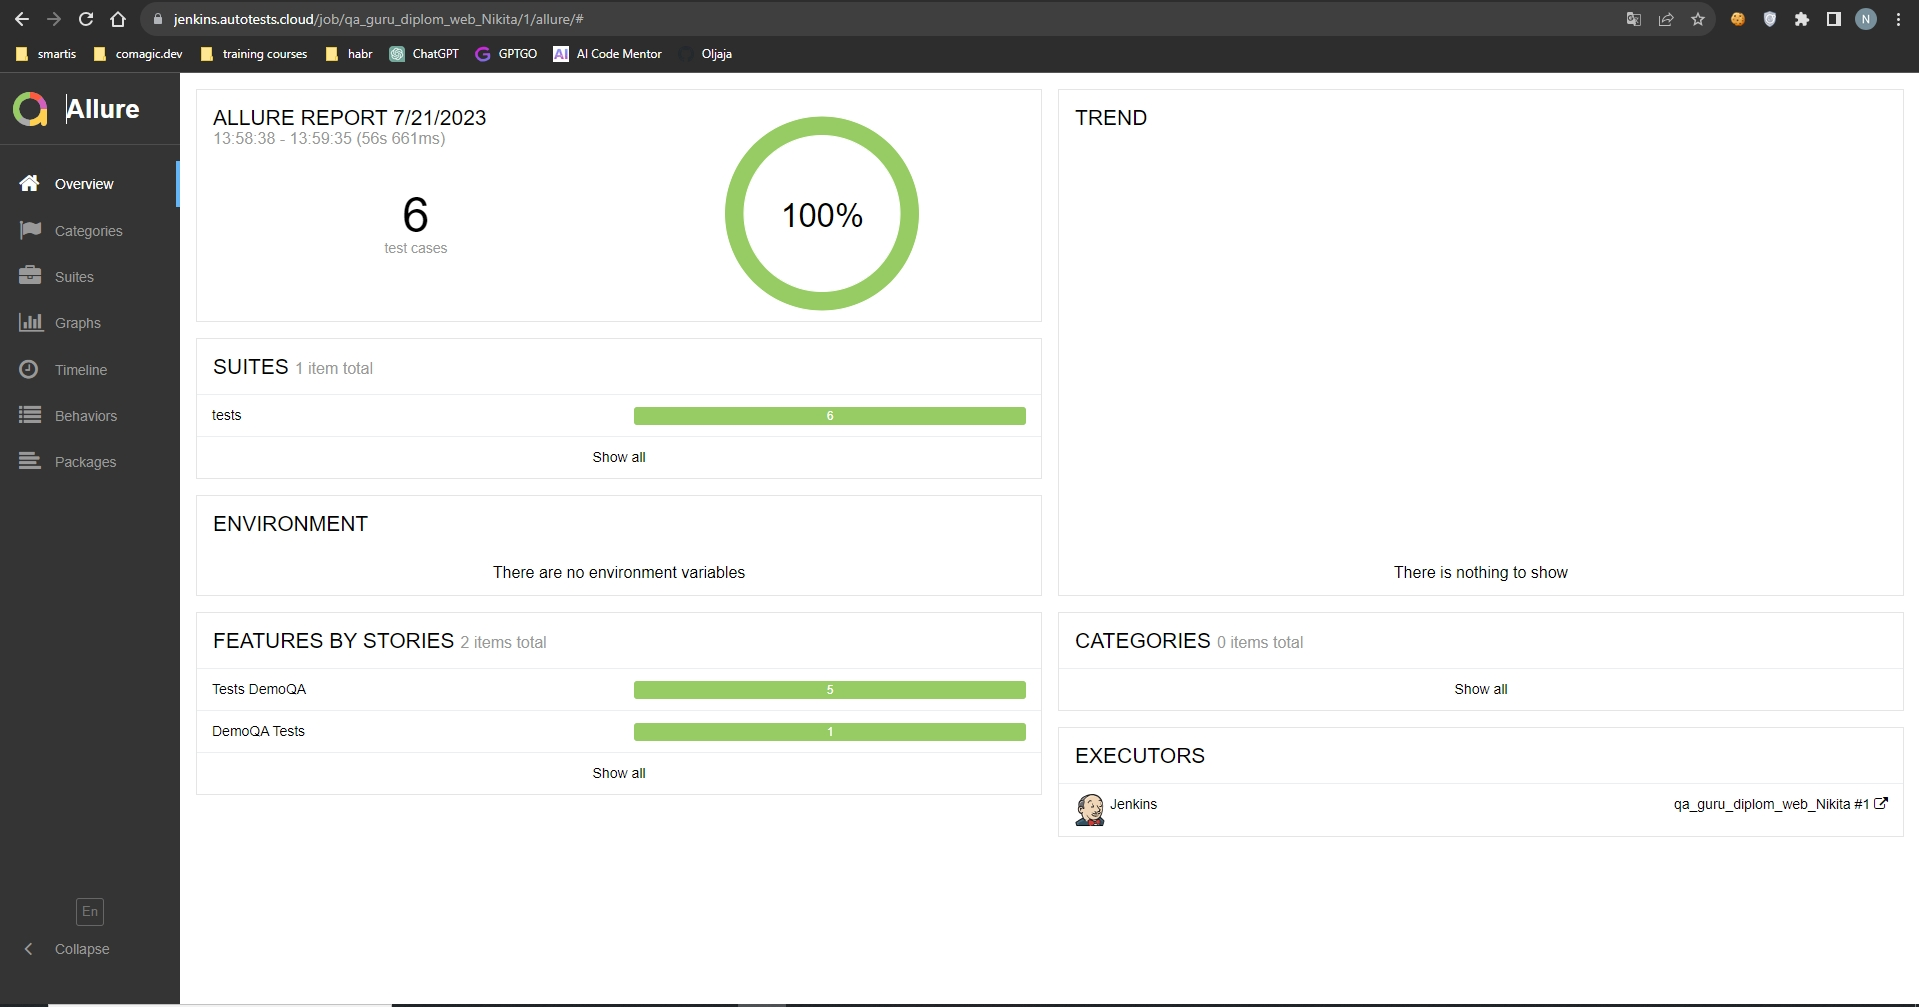
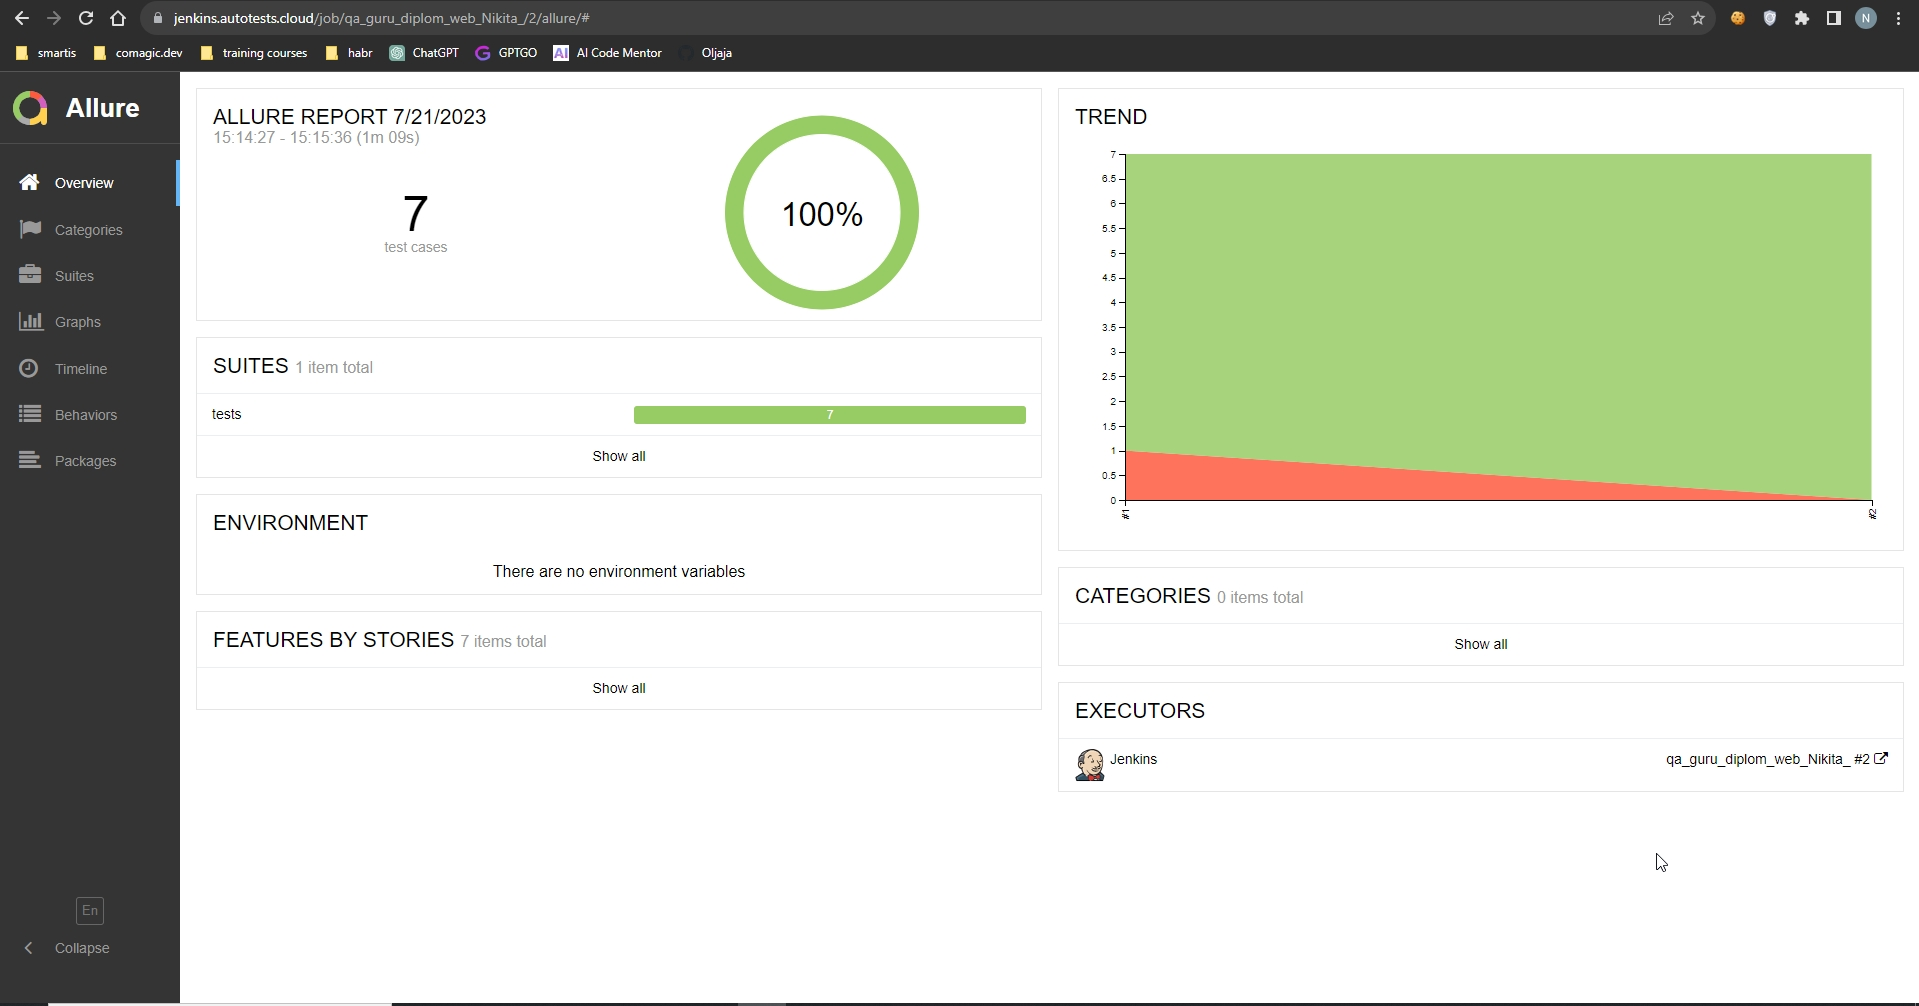
diplom web finished

diff --git a/README.md b/README.md
@@ -24,7 +24,7 @@
 <br>
 
 
-### <img width="3%" title="Jenkins" src="https://avatars.githubusercontent.com/u/2520748?v=4"> [Running a project in Jenkins](https://jenkins.autotests.cloud/job/qa_guru_diplom_web_Nikita/)
+### <img width="3%" title="Jenkins" src="https://avatars.githubusercontent.com/u/2520748?v=4"> [Running a project in Jenkins](https://jenkins.autotests.cloud/job/qa_guru_diplom_web_Nikita_/)
 ##### Implemented parameterized assembly, to run the project you need to select a browser and its version.
 
 ![Jenkins_run](images/jenkinss.png)
@@ -33,7 +33,7 @@
 
 
 
-### <img width="3%" title="Allure Report" src="https://avatars.githubusercontent.com/u/5879127?s=200&v=4"> [Allure report](https://jenkins.autotests.cloud/job/qa_guru_diplom_web_Nikita/1/allure/)
+### <img width="3%" title="Allure Report" src="https://avatars.githubusercontent.com/u/5879127?s=200&v=4"> [Allure report](https://jenkins.autotests.cloud/job/qa_guru_diplom_web_Nikita_/2/allure//)
 ##### After passing the tests, the results can be viewed in the Allure report.
 ![Overview](images/alluree.png)  
 
@@ -69,7 +69,7 @@ https://selenoid.autotests.cloud/video/6d814ab4999a32e472e0ff577c178931.mp4
 ![tests](images/alluree.test%20cases.png)   
 
 
-### <img width="3%" title="Jira" src="https://www.svgrepo.com/show/353935/jira.svg"> [Jira Integration](https://jira.autotests.cloud/browse/HOMEWORK-799)
+### <img width="3%" title="Jira" src="https://www.svgrepo.com/show/353935/jira.svg"> [Jira Integration](https://jira.autotests.cloud/browse/HOMEWORK-800)
 ##### Having set up integration with Jira through Allure TestOps, you can forward the result of passing tests and a list of test cases from Allure to a ticket
 
 ![Jira](images/jiraa.png)
